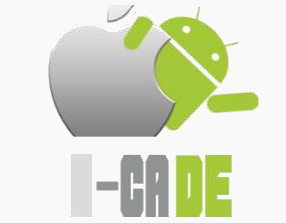
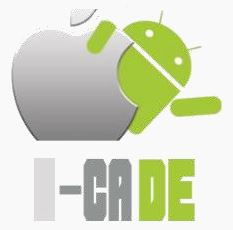
12414

Changed region(s): [[0.1202, 0.6726, 0.8412, 0.9955], [0.2704, 0.0269, 0.9614, 0.6188], [0.03, 0.1345, 0.2704, 0.6188]]

diff --git a/index.html b/index.html
@@ -119,7 +119,7 @@
 
                 <div class="project shadow-large" style="height:auto">
                     <div class="project-image">
-                        <img src="images/icade.png" style="width :225px; height:225px" />
+                        <img src="images/icade.jpg" style="width :225px; height:225px" />
                     </div>
                     <!-- End .project-image -->
                     <div class="project-info">
@@ -209,7 +209,7 @@
     <div id="contact">
         <h2>Get in Touch</h2>
         <div id="contact-form">
-            <form method="POST" action="https://script.google.com/macros/s/AKfycbyajjCVEDeNchxu6YzefoC-mxFXn7WlgkYjLnisJQ/exec">
+            <form method="POST" action="https://script.google.com/macros/s/AKfycbz6Am5HPQQ7PuU0S4YscU42BaIVFH2T0Yt1ikvAYi2MeClPITjq/exec">
                 <input type="hidden" name="_subject" value="Contact request from personal website" />
                 <input type="email" name="_replyto" placeholder="Your email" required>
                 <textarea name="message" placeholder="Your message" required></textarea>
